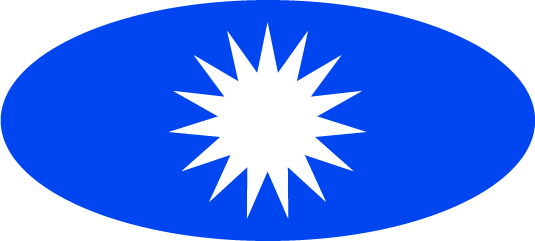
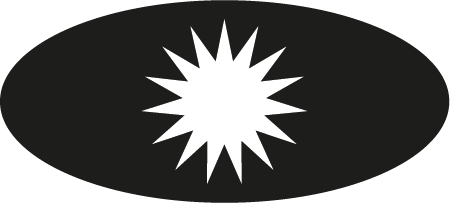
changed design colors

diff --git a/portfolio/src/components/Splash/Splash.scss b/portfolio/src/components/Splash/Splash.scss
@@ -11,7 +11,7 @@
     display: block;
     width: 18vw;
     height: 18vw;
-    border: solid #e84e0f;
+    border: solid $burnt-orange;
     border-width: 4px 0 0 4px;
     padding: 4px;
     }
@@ -22,7 +22,7 @@
     width: 100%;
     font-size: 21vw;
     text-transform: uppercase;
-    color: $orange;
+    color: $burnt-orange;
             &__text{
                 width:80%;
                 }
@@ -53,13 +53,13 @@
         font-size: 21vw;
         text-transform: uppercase;
         color: transparent;
-        -webkit-text-stroke: 2px $blue;
+        -webkit-text-stroke: 2px $washed-black;
     }
     &___dot{
         width: 5vw;
         height: 5vw;
         border-radius: 50%;
-        background-color: $blue;
+        background-color: $washed-black;
     }
 }
 
@@ -129,7 +129,7 @@
 
     &__line{
         border: none;
-        border-top: 3px dashed $blue;
+        border-top: 3px dashed $washed-black;
         margin: 0px 0.5rem 0px 0.5rem;
     }
 
@@ -139,14 +139,14 @@
         position: relative;
         font-size: 4vw;
         text-transform: uppercase;
-        color: $orange;
+        color: $burnt-orange;
         margin: 0;
     }
 
     &__soft{
         font-family: 'Montserrat', sans-serif;
         margin: 0;
-        color: $orange;
+        color: $burnt-orange;
         font-size: 4vw;
     
     }

diff --git a/portfolio/src/components/NavBar/NavBar.scss b/portfolio/src/components/NavBar/NavBar.scss
@@ -18,10 +18,10 @@
         text-transform: uppercase;
         a {
             text-decoration: none;
-            color: $blue;
+            color: $washed-black;
             &:hover{
                 font-weight: 800;
-                color: $orange;
+                color: $burnt-orange;
             }
         }
     }

diff --git a/portfolio/src/styles/utilities.scss b/portfolio/src/styles/utilities.scss
@@ -5,6 +5,10 @@ $blue: rgb(0,70,240);
 $white:rgb(242,242,242);
 $light-gray:rgb(179,179,179);
 
+$off-white:rgb(230,230,230);
+$burnt-orange: rgb(186,87,40);
+$washed-black: rgb(31,31,31);
+$pure-white: rgb(255, 255, 255);
 
 
 

diff --git a/portfolio/src/App.scss b/portfolio/src/App.scss
@@ -2,5 +2,5 @@
 
 .App {
   height: 100%;
-  background-color: $dark-gray;
+  background-color: $off-white;
 }
